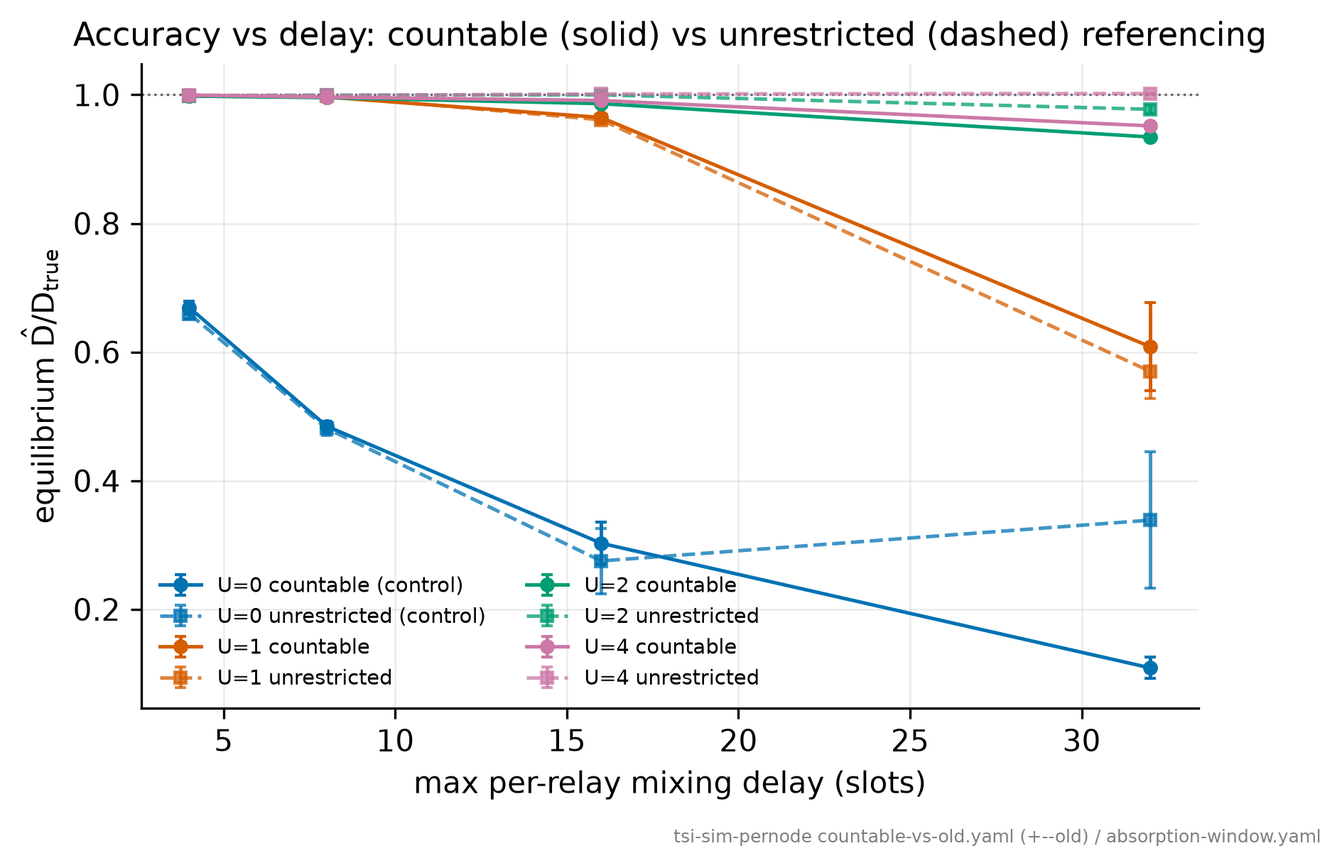
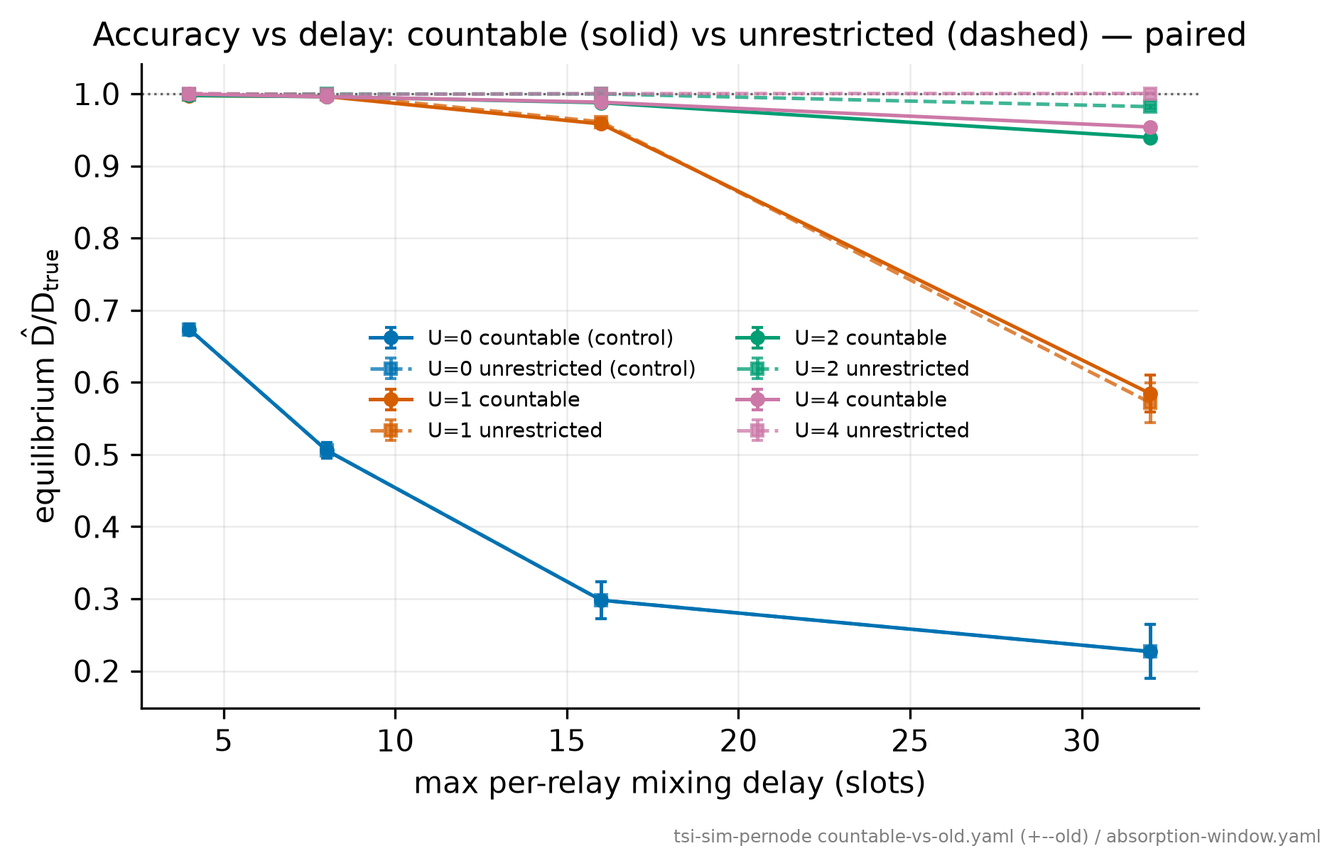
Pair the overload grid; the first-fork cost is resolved at every load
§3.2 rested on 5 unpaired replicates while §3.2a used a paired design.
Re-running the delta_max 4/8/16/32 grid with common random numbers and
20 replicates (configs/countable-vs-old-paired.yaml) changes the answer
at the design end.

The cost is resolved at EVERY delay and grows monotonically with load:

  delta_max=4  (rho 0.36)  -0.0013  t= 4.0   (unpaired: not resolved)
  delta_max=8  (rho 0.56)  -0.0034  t= 9.8   (unpaired: not resolved)
  delta_max=16 (rho 0.96)  -0.0102  t=17.5
  delta_max=32 (rho 1.76)  -0.0228  t=22.4

So §3.2's claim that "at the operating loads (rho < 1) no difference
between the models is detectable at all" was an artefact of the weak
design, not a property of the system. There is a difference; it is just
small — 0.13% and 0.34% at the two sub-unit loads. The new delta_max=4
figure (-0.0013 at 20 reps) independently reproduces §3.2a's (-0.0011 at
40 reps) from a separate sweep.

11 of 12 U>=1 cells resolve individually; max t = 29.0 against a
Bonferroni threshold of 2.87 for twelve tests. The U=0 control is exact:
80/80 replicate pairs differ by 0.0.

New finding at U=1 under overload: the sign FLIPS and the countable rule
wins, +0.0127 (t = 7.6), positive in 19 of 20 pairs. Both models have
collapsed at rho ~ 1.76 with a single uncle slot, but when capacity is
the binding constraint the countable rule's occupied-slot exclusion
means its one reference always recovers a NEW slot, while the
[…]

diff --git a/tools/simulators/tsi/tsi-sim-pernode/scripts/plot_countable_vs_old.py b/tools/simulators/tsi/tsi-sim-pernode/scripts/plot_countable_vs_old.py
@@ -34,7 +34,14 @@ import numpy as np
 import pandas as pd
 
 from tsi_sim.plotting import style
-from tsi_sim.plotting.figures_pernode import equilibrium, recovery_rate, sem
+from tsi_sim.plotting.figures_pernode import (
+    Z95,
+    equilibrium,
+    paired_gaps,
+    pooled_by_delay,
+    recovery_rate,
+    sem,
+)
 from tsi_sim.theory import expected_ratio, q_effective
 
 DELAY = "blend_delay_max"
@@ -61,7 +68,8 @@ def _eq(df: pd.DataFrame, extra_cols: tuple[str, ...] = ()) -> pd.DataFrame:
     return eq.groupby(keys, as_index=False).agg(**agg)
 
 
-def fig_accuracy_vs_delay(cnt: pd.DataFrame, old: pd.DataFrame) -> plt.Figure:
+def fig_accuracy_vs_delay(cnt: pd.DataFrame, old: pd.DataFrame,
+                          paired: bool = False) -> plt.Figure:
     """Accuracy vs delay per U, with replicate SEM bars.
 
     U=0 is the NEGATIVE CONTROL: with no uncles the two models are identical by
@@ -82,7 +90,8 @@ def fig_accuracy_vs_delay(cnt: pd.DataFrame, old: pd.DataFrame) -> plt.Figure:
     ax.axhline(1.0, color="0.4", lw=0.8, ls=":")
     ax.set_xlabel("max per-relay mixing delay (slots)")
     ax.set_ylabel(r"equilibrium $\hat{D}/D_{true}$")
-    ax.set_title("Accuracy vs delay: countable (solid) vs unrestricted (dashed) referencing")
+    ax.set_title("Accuracy vs delay: countable (solid) vs unrestricted (dashed)"
+                 + (" — paired" if paired else ""))
     ax.legend(ncol=2, fontsize="x-small")
     return fig
 
@@ -171,20 +180,26 @@ def main() -> None:
     cnt_raw, old_raw = _load(args.countable), _load(args.old)
     f = float(cnt_raw["f"].iloc[0])
     cnt, old = _eq(cnt_raw), _eq(old_raw)
+    # When both arms shared their RNG streams the comparison is PAIRED: the per-replicate
+    # difference cancels the shared variance, so it supersedes the unpaired two-sample test.
+    pg = paired_gaps(cnt_raw, old_raw)
     prov = "tsi-sim-pernode countable-vs-old.yaml (+--old) / absorption-window.yaml"
 
     written = []
-    written += style.save(fig_accuracy_vs_delay(cnt, old), out / "cvo_accuracy_vs_delay", prov)
+    written += style.save(fig_accuracy_vs_delay(cnt, old, pg is not None),
+                          out / "cvo_accuracy_vs_delay", prov)
     written += style.save(fig_prediction_vs_sim(cnt, f), out / "cvo_prediction_vs_sim", prov)
     written += style.save(fig_recovery_vs_delay(cnt), out / "cvo_recovery_vs_delay", prov)
     written += style.save(fig_absorption_window(_load(args.absorption)),
                           out / "absorption_window", prov)
-    # Headline numbers for the report. Every countable-vs-old gap is printed with the
-    # two-sample t = |diff| / SE(diff) over replicates; |t| < 2 means the cell does NOT
-    # resolve a model difference at this replicate count and must not be read as one.
-    # The U=0 rows are the negative control (models identical by construction, so their
-    # t is a pure noise reading).
-    print(f"{'cell':<14} {'countable':>17} {'old':>17} {'diff':>9} {'t':>6}  verdict")
+    # Headline numbers for the report. The gap is printed with t = |gap| / SE(gap); |t| < 2
+    # means the cell does NOT resolve a model difference at this replicate count and must not
+    # be read as one. Under paired_streams the SE is the per-replicate paired one (the shared
+    # variance cancels); otherwise it is the unpaired two-sample SE. The U=0 rows are the
+    # negative control — identical models, so paired they must be EXACTLY zero.
+    kind = "PAIRED (common random numbers)" if pg is not None else "unpaired two-sample"
+    print(f"\ncountable vs unrestricted — {kind}, {int(cnt.n_rep.min())} replicates/arm")
+    print(f"{'cell':<14} {'countable':>17} {'unrestricted':>17} {'gap':>9} {'t':>6}  verdict")
     for u in sorted(cnt["max_uncles"].unique()):
         for _, row in cnt[cnt.max_uncles == u].sort_values(DELAY).iterrows():
             q, qu = row.mean_q, row.mean_q_eff
@@ -193,10 +208,15 @@ def main() -> None:
             if not len(o):
                 continue
             orow = o.iloc[0]
-            diff = row.mean_ratio - orow.mean_ratio
-            se = float(np.hypot(row.sem_ratio, orow.sem_ratio))
-            t = abs(diff) / se if se > 0 else float("inf")
-            verdict = ("CONTROL (must be 0)" if u == 0 else
+            if pg is not None:
+                pr = pg[(pg.max_uncles == u) & (pg[DELAY] == row[DELAY])].iloc[0]
+                diff, se, t = float(pr.gap), float(pr.se), float(pr.t)
+            else:
+                diff = row.mean_ratio - orow.mean_ratio
+                se = float(np.hypot(row.sem_ratio, orow.sem_ratio))
+                t = abs(diff) / se if se > 0 else float("inf")
+            verdict = ("CONTROL (exactly 0)" if u == 0 and diff == 0.0 else
+                       "CONTROL" if u == 0 else
                        "resolved" if t >= 2 else "NOT RESOLVED (noise)")
             print(f"U={u} delay={row[DELAY]:>5g}  "
                   f"{row.mean_ratio:.4f}+-{row.sem_ratio:.4f}  "
@@ -205,6 +225,16 @@ def main() -> None:
             print(f"{'':>14}   q={q:.4f} q_u={qu:.4f} r={r:.4f} "
                   f"pred={float(expected_ratio(f, q_effective(q, r))):.4f} "
                   f"n_rep={int(row.n_rep)}")
+    if pg is not None:
+        print("\npooled over U>=1 per delay (the caps measure the same difference):")
+        for _, r_ in pooled_by_delay(pg).iterrows():
+            mark = "  <-- resolved" if r_.t >= 2 else ""
+            print(f"  delay={r_[DELAY]:>5g}: {r_.gap:+.5f} +-{Z95 * r_.se:.5f} "
+                  f"t={r_.t:6.2f}{mark}")
+        ctl = pg[pg.max_uncles == 0]
+        ex, tot = int(ctl.n_zero.sum()), int(ctl.n_pair.sum())
+        print(f"  U=0 control must be exactly 0 under pairing: {ex}/{tot} pairs "
+              f"-> {'PASSES' if ex == tot else 'FAILS'}")
     print(f"wrote {len(written)} files -> {out}")
 
 

diff --git a/tools/simulators/tsi/tsi-sim-pernode/scripts/plot_fine_delay.py b/tools/simulators/tsi/tsi-sim-pernode/scripts/plot_fine_delay.py
@@ -28,50 +28,27 @@ from __future__ import annotations
 
 import argparse
 from pathlib import Path
+from statistics import NormalDist
 
 import matplotlib.pyplot as plt
 import numpy as np
 import pandas as pd
 
 from tsi_sim.plotting import style
-from tsi_sim.plotting.figures_pernode import equilibrium, rho_for, sem
+from tsi_sim.plotting.figures_pernode import (
+    Z95,
+    equilibrium,
+    paired_gaps,
+    pooled_by_delay,
+    rho_for,
+    sem,
+)
 
 DELAY = "blend_delay_max"
-# Normal approximation: with 40 replicates per arm the t-quantile is within ~2% of 1.96,
-# and the replicate spread itself is the dominant uncertainty, so 1.96 is precise enough.
-Z95 = 1.96
 
 
 def _load(run_dir: str | Path) -> pd.DataFrame:
     return pd.read_parquet(Path(run_dir) / "results.parquet")
-
-
-def paired_gaps(cnt_raw: pd.DataFrame, old_raw: pd.DataFrame) -> pd.DataFrame | None:
-    """Per-replicate differences, when both arms were run with ``paired_streams``.
-
-    Under common random numbers replicate *i* of each arm shares the stake draw, the peering
-    graph and the lottery outcomes, so ``d_i = countable_i - unrestricted_i`` is a PAIRED
-    observation and the shared variance cancels. The test is then a one-sample t on the d_i,
-    which is what makes a sub-0.1 % effect reachable per cell instead of only after pooling.
-
-    Returns None when the runs are not paired, so the caller falls back to the unpaired test.
-    """
-    if not (cnt_raw.get("paired_streams", pd.Series([False])).all()
-            and old_raw.get("paired_streams", pd.Series([False])).all()):
-        return None
-    c, o = equilibrium(cnt_raw), equilibrium(old_raw)
-    keys = [DELAY, "max_uncles", "replicate"]
-    m = c[[*keys, "mean_ratio"]].merge(o[[*keys, "mean_ratio"]], on=keys,
-                                       suffixes=("_c", "_o"))
-    m["d"] = m.mean_ratio_c - m.mean_ratio_o
-    rows = []
-    for (dl, u), s in m.groupby([DELAY, "max_uncles"]):
-        d = s.d.to_numpy()
-        se = sem(d)
-        rows.append({DELAY: dl, "max_uncles": u, "gap": float(d.mean()), "se": se,
-                     "ci95": Z95 * se, "t": abs(d.mean()) / se if se > 0 else np.inf,
-                     "n_pair": len(d), "n_zero": int((d == 0.0).sum())})
-    return pd.DataFrame(rows).sort_values(["max_uncles", DELAY])
 
 
 def _cells(df: pd.DataFrame) -> pd.DataFrame:
@@ -125,24 +102,6 @@ def fig_accuracy(cnt: pd.DataFrame, old: pd.DataFrame) -> plt.Figure:
     ax.set_title("Design-regime accuracy: countable vs unrestricted referencing")
     ax.legend(ncol=2, fontsize="x-small")
     return fig
-
-
-def pooled_by_delay(g: pd.DataFrame) -> pd.DataFrame:
-    """Inverse-variance pooled gap across the U >= 1 arms, per delay.
-
-    Individual cells are underpowered against a sub-0.1 % effect even at 40 replicates, but
-    the three uncle caps are independent measurements of the same underlying difference, so
-    pooling them buys back a factor of ~sqrt(3) and is what actually resolves the trend.
-    """
-    u = g[g.max_uncles > 0]
-    rows = []
-    for d, s in u.groupby(DELAY):
-        w = 1.0 / s.se.to_numpy() ** 2
-        p = float((s.gap.to_numpy() * w).sum() / w.sum())
-        e = float(np.sqrt(1.0 / w.sum()))
-        rows.append({DELAY: d, "gap": p, "se": e, "ci95": Z95 * e,
-                     "t": abs(p) / e if e > 0 else np.inf})
-    return pd.DataFrame(rows).sort_values(DELAY)
 
 
 def fig_gap(g: pd.DataFrame) -> plt.Figure:
@@ -232,9 +191,10 @@ def main() -> None:
     print(f"\nn_rep = {int(g.n_rep_c.min())}/{int(g.n_rep_o.min())} per arm")
     print(f"widest 95% CI half-width at U>=1: +-{worst.ci95.max():.4f} "
           f"({100 * worst.ci95.max():.2f} pp)")
-    # Per-cell significance must be read against the number of cells tested: with 15 cells,
-    # ~0.75 are expected to clear t=2 by chance alone, so quote the Bonferroni threshold.
-    bonf = 2.935 if len(worst) == 15 else float("nan")
+    # Per-cell significance must be read against the number of cells tested — some are
+    # expected to clear t=2 by chance alone — so quote the Bonferroni threshold for the grid
+    # actually run, not a constant baked in for one grid size.
+    bonf = NormalDist().inv_cdf(1 - 0.05 / (2 * len(worst)))
     print(f"per-cell: {int((worst.t >= 2).sum())}/{len(worst)} cells with t>=2 "
           f"(expected by chance {0.05 * len(worst):.2f}); max t = {worst.t.max():.2f} "
           f"vs Bonferroni threshold {bonf:.3f}")
@@ -264,8 +224,10 @@ def main() -> None:
         print(f"  U=0 control under pairing must be EXACTLY zero: {exact}/{tot} pairs are 0.0"
               f" -> {'PASSES' if exact == tot else 'FAILS — streams are not shared'}")
         res = pg[(pg.max_uncles > 0) & (pg.t >= 2)]
-        print(f"  per-cell resolved at |t|>=2: {len(res)}/{len(pg[pg.max_uncles>0])}"
-              f" (unpaired: {int((unpaired[unpaired.max_uncles>0].t>=2).sum())}/15)")
+        n_cells = len(pg[pg.max_uncles > 0])
+        n_unpaired = int((unpaired[unpaired.max_uncles > 0].t >= 2).sum())
+        print(f"  per-cell resolved at |t|>=2: {len(res)}/{n_cells}"
+              f" (same data, unpaired test: {n_unpaired}/{n_cells})")
 
     ctl = g[g.max_uncles == 0]
     if len(ctl):

diff --git a/tools/simulators/tsi/tsi-sim-pernode/src/tsi_sim/plotting/figures_pernode.py b/tools/simulators/tsi/tsi-sim-pernode/src/tsi_sim/plotting/figures_pernode.py
@@ -83,6 +83,58 @@ def rho_for(df: pd.DataFrame, delay) -> np.ndarray:
     return f * (hops * np.asarray(delay, dtype=float) / 2.0 + (hops + 1) * ell)
 
 
+DELAY = "blend_delay_max"
+# Normal approximation: at 20+ replicates the t-quantile is within a few percent of
+# 1.96, and the replicate spread dominates, so 1.96 is precise enough for these CIs.
+Z95 = 1.96
+
+
+def paired_gaps(cnt_raw: pd.DataFrame, old_raw: pd.DataFrame) -> pd.DataFrame | None:
+    """Per-replicate differences, when both arms were run with ``paired_streams``.
+
+    Under common random numbers replicate *i* of each arm shares the stake draw, the peering
+    graph and the lottery outcomes, so ``d_i = countable_i - unrestricted_i`` is a PAIRED
+    observation and the shared variance cancels. The test is then a one-sample t on the d_i,
+    which is what makes a sub-0.1 % effect reachable per cell instead of only after pooling.
+
+    Returns None when the runs are not paired, so the caller falls back to the unpaired test.
+    """
+    if not (cnt_raw.get("paired_streams", pd.Series([False])).all()
+            and old_raw.get("paired_streams", pd.Series([False])).all()):
+        return None
+    c, o = equilibrium(cnt_raw), equilibrium(old_raw)
+    keys = ["blend_delay_max", "max_uncles", "replicate"]
+    m = c[[*keys, "mean_ratio"]].merge(o[[*keys, "mean_ratio"]], on=keys,
+                                       suffixes=("_c", "_o"))
+    m["d"] = m.mean_ratio_c - m.mean_ratio_o
+    rows = []
+    for (dl, u), s in m.groupby(["blend_delay_max", "max_uncles"]):
+        d = s.d.to_numpy()
+        se = sem(d)
+        rows.append({"blend_delay_max": dl, "max_uncles": u, "gap": float(d.mean()), "se": se,
+                     "ci95": Z95 * se, "t": abs(d.mean()) / se if se > 0 else np.inf,
+                     "n_pair": len(d), "n_zero": int((d == 0.0).sum())})
+    return pd.DataFrame(rows).sort_values(["max_uncles", "blend_delay_max"])
+
+
+def pooled_by_delay(g: pd.DataFrame) -> pd.DataFrame:
+    """Inverse-variance pooled gap across the U >= 1 arms, per delay.
+
+    Individual cells are underpowered against a sub-0.1 % effect even at 40 replicates, but
+    the three uncle caps are independent measurements of the same underlying difference, so
+    pooling them buys back a factor of ~sqrt(3) and is what actually resolves the trend.
+    """
+    u = g[g.max_uncles > 0]
+    rows = []
+    for d, s in u.groupby(DELAY):
+        w = 1.0 / s.se.to_numpy() ** 2
+        p = float((s.gap.to_numpy() * w).sum() / w.sum())
+        e = float(np.sqrt(1.0 / w.sum()))
+        rows.append({DELAY: d, "gap": p, "se": e, "ci95": Z95 * e,
+                     "t": abs(p) / e if e > 0 else np.inf})
+    return pd.DataFrame(rows).sort_values(DELAY)
+
+
 def _lat_axis(topo: str) -> tuple[str, str]:
     """(dataframe column, axis label) for the dominant latency knob of a graph topology."""
     if topo == "blend":

diff --git a/reports/tsi/README.md b/reports/tsi/README.md
@@ -58,7 +58,7 @@
 
 ---
 
-> **The uncle-reference model analysed here.** Uncle references are *counting-only* — they never affect a block's validity ([§6.7](#s6-7)–[§6.8](#s6-8)) — and are deduplicated by **slot**, not by block ([§8.5](#s8-5)). The reference window is derived from a **window absorption parameter**, `w_u = W_abs/f` with `W_abs = 10` expected block-intervals and bound `W_abs ≤ 0.6·k`, which is the `W = 300 = 10/f` sizing rule of [§3.4](#s3-4). One structural constraint shapes the results: only the **first block of a fork** — one whose parent lies on the referencing chain — is countable, which is the price of verifying every reference from chain data alone. This report calls that the **countable** model, and measures it against an **unrestricted** baseline in which any orphan in the window is referenceable at any fork depth ([§2.1](#s2-1), [§3.2](#s3-2), [§9](#s9)). The result: **in the design regime `ρ < 1` the two are practically identical.** A dedicated 40-replicate **paired** sweep of the operating band (`δ_max` 1–5, `ρ ≈ 0.21–0.41`), in which both arms share the stake draw, the peering graph and every lottery outcome so the uncle rule is the only difference, puts every `U ≥ 1` cell of both models in 0.998–1.001 and pins the first-fork cost at **nothing measurable up to `δ_max` = 3 and ~0.1 % at `δ_max` = 4–5** ([§3.2a](#s3-2a)). Differences appear only at `ρ ≥ 1`: the restriction trims ~1.4 % at `ρ ≈ 1`, and under overload (`ρ ≈ 1.8`) recovery saturates near 0.95 where the unrestricted model reaches ~1.00. Deep forks are unrecoverable by construction, so past `ρ ≈ 1` the ceiling is set by the fork *depth* profile and **no uncle cap buys it back** — a second, independent reason for the [§8](#s8) "keep `ρ < 1`" rule. The closed-form accuracy with the measured effective utilization, `log(1−f)/log(1−f/q_u)`, predicts every countable cell to within 0.2 %.
+> **The uncle-reference model analysed here.** Uncle references are *counting-only* — they never affect a block's validity ([§6.7](#s6-7)–[§6.8](#s6-8)) — and are deduplicated by **slot**, not by block ([§8.5](#s8-5)). The reference window is derived from a **window absorption parameter**, `w_u = W_abs/f` with `W_abs = 10` expected block-intervals and bound `W_abs ≤ 0.6·k`, which is the `W = 300 = 10/f` sizing rule of [§3.4](#s3-4). One structural constraint shapes the results: only the **first block of a fork** — one whose parent lies on the referencing chain — is countable, which is the price of verifying every reference from chain data alone. This report calls that the **countable** model, and measures it against an **unrestricted** baseline in which any orphan in the window is referenceable at any fork depth ([§2.1](#s2-1), [§3.2](#s3-2), [§9](#s9)). The result: **in the design regime `ρ < 1` the two are practically identical.** A dedicated 40-replicate **paired** sweep of the operating band (`δ_max` 1–5, `ρ ≈ 0.21–0.41`), in which both arms share the stake draw, the peering graph and every lottery outcome so the uncle rule is the only difference, puts every `U ≥ 1` cell of both models in 0.998–1.001 and pins the first-fork cost at **nothing measurable up to `δ_max` = 3 and ~0.1 % at `δ_max` = 4–5** ([§3.2a](#s3-2a)). Measured against the unrestricted baseline under common random numbers, the cost grows monotonically with load — 0.13 % at `ρ ≈ 0.36`, 0.34 % at `ρ ≈ 0.56`, 1.0 % at `ρ ≈ 0.96` and 2.3 % under overload at `ρ ≈ 1.76`, where recovery saturates near 0.95 against the unrestricted model's ~1.00. Deep forks are unrecoverable by construction, so past `ρ ≈ 1` the ceiling is set by the fork *depth* profile and **no uncle cap buys it back** — a second, independent reason for the [§8](#s8) "keep `ρ < 1`" rule. The closed-form accuracy with the measured effective utilization, `log(1−f)/log(1−f/q_u)`, predicts every countable cell to within 0.2 %.
 
 <a id="s1"></a>
 ## 1. Executive summary
@@ -200,28 +200,30 @@ The U = 0 under-count **deepens with N** (more nodes → more concurrent proposa
 
 ![Fig 2 — per-node D̂/D vs uncle cap U (curves: max blending delay per hop = 1/2/3 slots, averaged over N): without uncles the estimate is biased low — deeper as blending delay grows — and one uncle restores it to exactly 1.](report-figures/fig2_uncle_recovery.png)
 
-**What the first-fork restriction costs.** Running the delay × U grid under both referencing models on the same grid (`configs/countable-vs-old.yaml`, N = 1 000, blend, 3 hops, 5 replicates; [§9](#s9)) separates the regimes cleanly (`fig30`). Cells are replicate means ± SEM; `t` is the two-sample statistic for the countable−unrestricted gap, and cells with `t < 2` do **not** resolve a difference at this replicate count:
+**What the first-fork restriction costs.** The delay × U grid is run under both referencing models with **common random numbers** (`configs/countable-vs-old-paired.yaml`, 20 replicates, N = 1 000, blend, 3 hops; [§9](#s9)): a countable cell and its unrestricted twin share the stake draw, the peering graph and every lottery outcome, so the uncle rule is the only difference and each replicate is a matched pair. Cells are replicate means ± SEM; the gap and its `t` come from the 20 per-replicate differences.
 
-| `δ_max` (s) | ρ | U | countable | unrestricted | gap (t) |
-|---|---|---|---|---|---|
-| 4 | ≈ 0.36 | 1 / 2 / 4 | 0.9979 ± 0.0015 / 0.9982 ± 0.0014 / 0.9995 ± 0.0012 | 0.9981 ± 0.0006 / 0.9985 ± 0.0012 / 0.9992 ± 0.0013 | *none resolved* (0.1–0.2) |
-| 8 | ≈ 0.56 | 1 / 2 / 4 | 0.9965 ± 0.0015 / 0.9955 ± 0.0017 / 0.9963 ± 0.0015 | 0.9986 ± 0.0017 / 0.9993 ± 0.0016 / 0.9989 ± 0.0017 | *none resolved* (1.0–1.6) |
-| 16 | ≈ 0.96 | 1 | 0.9647 ± 0.0065 | 0.9610 ± 0.0043 | *not resolved* (0.5) |
-| 16 | ≈ 0.96 | 2 / 4 | 0.9862 ± 0.0010 / 0.9911 ± 0.0032 | 0.9999 ± 0.0005 / 1.0013 ± 0.0011 | −0.014 (12.1) / −0.010 (3.0) |
-| 32 | ≈ 1.76 | 1 | 0.608 ± 0.069 | 0.570 ± 0.042 | *not resolved* (0.5) |
-| 32 | ≈ 1.76 | 2 / 4 | 0.9343 ± 0.0015 / 0.9517 ± 0.0007 | 0.9774 ± 0.0064 / 1.0020 ± 0.0010 | −0.043 (6.5) / −0.050 (41.0) |
+| `δ_max` (s) | ρ | `U=0` (both) | `U=1` countable / unrestricted | `U=2` | `U=4` | pooled gap (t) |
+|---|---|---|---|---|---|---|
+| 4 | ≈ 0.36 | 0.674 | 0.9975 / 0.9989 | 0.9977 / 0.9991 | 0.9996 / 1.0005 | −0.0013 (4.0) |
+| 8 | ≈ 0.56 | 0.506 | 0.9962 / 0.9995 | 0.9960 / 0.9996 | 0.9958 / 0.9989 | −0.0034 (9.8) |
+| 16 | ≈ 0.96 | 0.298 | 0.9582 / 0.9610 | 0.9876 / 0.9998 | 0.9883 / 1.0002 | −0.0102 (17.5) |
+| 32 | ≈ 1.76 | 0.227 | 0.585 / 0.572 | 0.9394 / 0.9821 | 0.9539 / 1.0005 | −0.0228 (22.4) |
 
-**The `U = 0` rows are a negative control.** With no uncles the two models are identical by construction — no reference is ever taken, so any measured gap is pure between-run noise (the two models draw independent RNG streams by design, so the comparison is unpaired). That control reads **+0.010 (t = 0.8) at `δ_max = 4`** but **−0.230 (t = 2.1) at `δ_max = 32`**, where single replicates range from 0.05 to 0.60. Read the table against that floor: at `δ_max = 32` a gap must clear ~0.2 to mean anything on a single-replicate basis, which is exactly why the `U = 1` cells there are reported as unresolved while the tightly-clustered `U = 2` and `U = 4` cells are not.
+**The negative control is exact.** With `U = 0` no reference is ever taken, so under shared streams the two arms must be bit-identical rather than merely close: **all 80 replicate pairs differ by exactly 0.0**, at every delay.
 
-So: **at the operating loads (`ρ < 1`) no difference between the models is detectable at all** — the first-fork restriction costs nothing measurable where forks are shallow, and both models sit at ≥ 0.995 for every `U ≥ 1`. ([§3.2a](#s3-2a) puts a much tighter bound on this region.) Differences appear only at `ρ ≥ 1` and only at `U ≥ 2`: at `ρ ≈ 1` the restriction trims ~1.4 %, and in overload the countable recovery **saturates** — raising `U` 2 → 4 buys only 0.934 → 0.952 while the unrestricted model reaches ~1.00. The ceiling is the measured recovery rate `r` (0.92 at `δ_max = 32`, `U = 4`), set by the fork-*depth* profile rather than by capacity, so no uncle cap buys it back. The closed form `D̂/D = log(1−f)/log(1−f/q_u)` with the measured `q_u = q + (1−q)·r` predicts every countable cell to within 0.2 % (`fig31`).
+**The cost grows monotonically with load**, and is resolved at every delay: 0.13 % at `ρ ≈ 0.36`, 0.34 % at `ρ ≈ 0.56`, 1.0 % at `ρ ≈ 0.96`, 2.3 % at `ρ ≈ 1.76`. Eleven of the twelve `U ≥ 1` cells resolve individually (the exception is `U = 4` at `δ_max = 4`, `t = 1.07`), and the largest, `t = 29.0`, clears the Bonferroni threshold of 2.87 for twelve tests by an order of magnitude. At the design end the effect is small enough that it took pairing to see it at all — the earlier unpaired 5-replicate grid found nothing below `δ_max = 16` — and [§3.2a](#s3-2a) reaches the same `δ_max = 4` figure (−0.0013 at 20 replicates here, −0.0011 at 40 there) from an independent sweep.
 
-`fig32` shows `r` and the residual `1−r` per delay, rising from 0.3 % to 7.8 % of the waste as `δ_max` goes 4 → 32 at `U = 4`. That residual is the *combined* first-fork and capacity loss — the simulator cannot separate the two, because the restriction acts at selection (a deep orphan is simply never referenced) rather than at counting. At `U = 4`, where capacity is not binding for `ρ ≤ 1.8`, most of it is attributable to fork depth; the split is not measured directly.
+**At `U = 1` under overload the sign flips**, and this is the one place the countable rule *wins*: at `δ_max = 32` it reads 0.585 against 0.572, a gap of **+0.0127 (t = 7.6), positive in 19 of 20 pairs**. Both models have collapsed there — one uncle slot cannot drain `ρ ≈ 1.76` — but when capacity is the binding constraint, the countable rule's occupied-slot exclusion means its single reference always recovers a *new* slot, whereas the unrestricted rule deduplicates by block id and can spend its one reference on an orphan whose slot is already counted, recovering nothing. The measured recovery agrees: `q_u` = 0.591 countable against 0.579 unrestricted. So the slot-vs-block distinction of [§2.1](#s2-1) is worth most exactly where references are scarcest.
 
-![Fig 30 — equilibrium D̂/D vs Blend mixing delay, countable (solid) vs unrestricted (dashed) per uncle cap, error bars = replicate SEM. The U=0 pair is the negative control: the models are identical with no uncles, so the visible gap there — small at low delay, large at 32 — is the pure between-run noise floor. Countable saturates below 1 in overload, where deep forks are unrecoverable by construction.](report-figures/fig30_countable_vs_old.png)
+**Everywhere else the restriction dominates**, and it bites hardest through the fork *depth* profile rather than capacity: raising `U` from 2 to 4 at `δ_max = 32` moves the countable model only 0.939 → 0.954 while the unrestricted model reaches ~1.00. The ceiling is the measured recovery rate `r` (0.92 at `δ_max = 32`, `U = 4`), so no uncle cap buys it back. The closed form `D̂/D = log(1−f)/log(1−f/q_u)` with the measured `q_u = q + (1−q)·r` predicts every countable cell to within 0.2 % (`fig31`).
+
+`fig32` shows `r` and the residual `1−r` per delay, rising from 0.3 % to 8.1 % of the waste as `δ_max` goes 4 → 32 at `U = 4`. That residual is the *combined* first-fork and capacity loss — the simulator cannot separate the two, because the restriction acts at selection (a deep orphan is simply never referenced) rather than at counting.
+
+![Fig 30 — equilibrium D̂/D vs Blend mixing delay, countable (solid) vs unrestricted (dashed) per uncle cap, under common random numbers; error bars = replicate SEM over 20 pairs. The U=0 pair is the negative control: with no uncles and shared streams the two arms are bit-identical, so those curves coincide exactly. Countable sits below unrestricted at every delay for U≥2, and the gap widens with load.](report-figures/fig30_countable_vs_old.png)
 
 ![Fig 31 — the q→q_u reduction check: predicted log(1−f)/log(1−f/q̄_u) from the measured q̄_u vs the simulated equilibrium, all countable U≥1 cells on the diagonal within 0.2 %.](report-figures/fig31_countable_prediction.png)
 
-![Fig 32 — measured recovery rate r (left) and the non-recovered waste share 1−r on a log axis (right) vs mixing delay: near-total recovery at design loads; the residual — first-fork and capacity losses combined, which this measurement cannot separate — grows with delay.](report-figures/fig32_countable_recovery.png)
+![Fig 32 — measured recovery rate r (left) and the non-recovered waste share 1−r on a log axis (right) vs mixing delay: near-total recovery at design loads (1−r ≈ 0.3 % at δ_max = 4), rising to ~8 % at δ_max = 32 for U = 4. The residual combines first-fork and capacity losses, which this measurement cannot separate.](report-figures/fig32_countable_recovery.png)
 
 **Bootstrap is self-limiting — but only with uncles** (`fig1`; full scale, k = 2160, Blend, N = 1 000 and 5 000, genesis guesses 0.01×–2× the true stake; 0.1×–2× at N = 5 000). With uncles (U = 2, solid lines) the cold start is a non-event: whatever the guess, block production snaps back to the target `f` within ~2–2.5 epochs and the estimate lands on 1.0 by epoch 2 — identically at both network sizes. Without uncles (U = 0, dashed) the system also converges from any guess, **but to the wrong place**: the estimate settles below truth (mean ≈ 0.58× across guesses, ranging ≈0.48–0.85; ≈0.51× at N = 5 000) and the network then *chronically over-produces* blocks at ~1.85× the target rate (~2.0× at N = 5 000) — the [§6.2](#s6-2) load feedback in the flesh (a low estimate makes the lottery easier, extra blocks orphan, the count stays low). So uncle references are load-bearing from the very first epochs: they are what makes the bootstrap end *at the truth* rather than at a permanently overheated equilibrium.
 
@@ -879,7 +881,8 @@ Sweep studies are committed configs, run with `make <name>` (writes a dated `run
 | soft uncle inclusion (reward share vs emergent `p_ref`) | `scripts/reward_mandate.py` | [§6.8](#s6-8), [§6.9](#s6-9) |
 | U = 0 fluctuation series (zero delay, k ∈ {256, 1024, 2160}) | `scripts/appendix_fluct.py --run` (`runs/fluctuation_u0.parquet`) | [Appendix B](#sB) |
 | CI smoke grid + analytic sanity checks | `configs/smoke.yaml`; `scripts/verify.py` (`make verify`) — validation only, no figures | — |
-| **countable vs unrestricted referencing** (accuracy over delay × U; measured `q_u`/recovery `r`) | `configs/countable-vs-old.yaml` run twice — default and with `--old`; figures + significance table by `scripts/plot_countable_vs_old.py` | [§2.1](#s2-1), [§3.2](#s3-2) |
+| **countable vs unrestricted referencing, PAIRED** (accuracy over delay × U; measured `q_u`/recovery `r`) | `configs/countable-vs-old-paired.yaml` run twice — default and with `--old`, 20 replicates, common random numbers; figures + paired-difference table by `scripts/plot_countable_vs_old.py` | [§2.1](#s2-1), [§3.2](#s3-2) |
+| countable vs unrestricted, unpaired (same grid, 5 replicates; superseded — retained as the power comparison) | `configs/countable-vs-old.yaml` run twice | [§3.2](#s3-2) |
 | **fine delay band, PAIRED** (δ_max 1–5, 40 replicates, common random numbers — the primary design-regime measurement) | `configs/fine-delay-paired.yaml` run twice — default and with `--old`; paired-difference tests + figures by `scripts/plot_fine_delay.py` | [§3.2a](#s3-2a) |
 | fine delay band, unpaired (same grid without `paired_streams`; superseded, retained as the power comparison) | `configs/fine-delay.yaml` run twice | [§3.2a](#s3-2a) |
 | **window absorption sweep** (`W` in expected block-intervals, `w_u = W/f` derived) | `configs/absorption-window.yaml`; figure by `scripts/plot_countable_vs_old.py` | [§3.4](#s3-4) |
@@ -888,7 +891,7 @@ Sweep studies are committed configs, run with `make <name>` (writes a dated `run
 
 Because the two models draw independent RNG streams, every countable-vs-unrestricted comparison is **unpaired**, and its resolution is set by the replicate spread rather than by the effect size. Each comparison sweep therefore includes a `U = 0` arm as a **negative control**: with no uncles the models are identical by construction, so the measured `U = 0` gap is a direct reading of the noise floor at that delay and replicate count. At `δ_max = 32` with 5 replicates that floor is ≈ 0.23 in `D̂/D` — larger than several real effects elsewhere in the grid — which is why [§3.2](#s3-2) reports a `t` statistic per cell and why the design regime is measured separately at 40 replicates ([§3.2a](#s3-2a)).
 
-All studies were **re-run on 2026-07-23/24 with the corrected slot-counting mechanism** ([§2.1](#s2-1)) and the early-stop optimisation; the resilient batch is `scripts/run_all_reruns.sh` (per-step log in `runs/rerun_status.log`). Canonical run directories (latest): fullscale N=5000/10000 = `2026-07-24_094519_fullscale`; fullscale N=1000/2000 = `2026-07-23_171803_fullscale-small`; uncle-window = `2026-07-24_001456`; window-uncles = `2026-07-24_014240`; block-rate = `2026-07-24_043943`; blend-hops-delay = `2026-07-24_064052`; window-scale = `2026-07-24_085234`; latency-shape = `2026-07-24_090014_expdist`; stake-tail = `2026-07-24_090044_pareto133`; heterogeneous-start = `2026-07-24_090114_default`; N-scaling = the `nscaling-{a,b}` + `nscaling32-{a,b}` runs; adversary grids = `runs/adversary_grid/`; jitter = `runs/jitter_grid/`; bootstrap = `runs/bootstrap_fullscale/`; fluctuation = `runs/fluctuation_u0.parquet`; fork-rate = `runs/fork_rate_vs_delay.parquet`; ρ-boundary = `2026-07-27_195627_rho-boundary`. Referencing-model studies: countable-vs-unrestricted = `2026-08-04_103536_cvo-countable` / `2026-08-04_104010_cvo-old`; window absorption = `2026-08-04_104633_absorption-window`; fine delay band (unpaired) = `2026-08-04_191441_fine-countable` / `2026-08-04_195353_fine-old`; fine delay band (paired, primary) = `2026-08-05_111109_fine-paired-countable` / `2026-08-05_113218_fine-paired-old`.
+All studies were **re-run on 2026-07-23/24 with the corrected slot-counting mechanism** ([§2.1](#s2-1)) and the early-stop optimisation; the resilient batch is `scripts/run_all_reruns.sh` (per-step log in `runs/rerun_status.log`). Canonical run directories (latest): fullscale N=5000/10000 = `2026-07-24_094519_fullscale`; fullscale N=1000/2000 = `2026-07-23_171803_fullscale-small`; uncle-window = `2026-07-24_001456`; window-uncles = `2026-07-24_014240`; block-rate = `2026-07-24_043943`; blend-hops-delay = `2026-07-24_064052`; window-scale = `2026-07-24_085234`; latency-shape = `2026-07-24_090014_expdist`; stake-tail = `2026-07-24_090044_pareto133`; heterogeneous-start = `2026-07-24_090114_default`; N-scaling = the `nscaling-{a,b}` + `nscaling32-{a,b}` runs; adversary grids = `runs/adversary_grid/`; jitter = `runs/jitter_grid/`; bootstrap = `runs/bootstrap_fullscale/`; fluctuation = `runs/fluctuation_u0.parquet`; fork-rate = `runs/fork_rate_vs_delay.parquet`; ρ-boundary = `2026-07-27_195627_rho-boundary`. Referencing-model studies: countable-vs-unrestricted (paired, primary) = `2026-08-05_120804_cvo-paired-countable` / `2026-08-05_123403_cvo-paired-old`; the superseded unpaired pair = `2026-08-04_103536_cvo-countable` / `2026-08-04_104010_cvo-old`; window absorption = `2026-08-04_104633_absorption-window`; fine delay band (unpaired) = `2026-08-04_191441_fine-countable` / `2026-08-04_195353_fine-old`; fine delay band (paired, primary) = `2026-08-05_111109_fine-paired-countable` / `2026-08-05_113218_fine-paired-old`.
 
 Figures are embedded from [`report-figures/`](report-figures) and versioned here alongside the report; the simulator folder does **not** commit its own generated figures, so the copies checked in here are the figures of record. Figures are in `report-figures/` (`fig1`–`fig29`, plus [Appendix B](#sB)'s `figB1`–`figB2`; numbering is generation order, not order of appearance). Committed generators: `fig1` (bootstrap, k=2160) by `scripts/bootstrap_dynamics.py`; `fig2`,`fig4`,`fig5`,`fig17`–`fig22` by `scripts/regenerate_extra_figs.py` from the latest sweeps (`fig3` hops×delay×U grid by `scripts/hops_delay_grid.py`, `fig6` (block-rate `U_min` grid + ρ-collapse) rendered ad hoc from `runs/2026-07-24_043943_block-rate` with no committed generator; `fig26` deficit-vs-ρ by `scripts/rho_boundary_analysis.py`) (fullscale-derived `fig17`–`fig20` pool both sizes in that run, N = 5 000 and N = 10 000 — the generators filter on stake_dist/topology/degree/init_dest only, never on `n_nodes`); `fig8`,`fig9` by `scripts/adversary_figs.py` from `runs/adversary_grid/`; `fig10`–`fig12` by `scripts/dynamic_withhold.py`; `fig13`–`fig15` by `scripts/selfish_mining.py`/`selfish_rewards.py`/`reward_mandate.py`; `fig16` by `scripts/stake_vs_delay.py`; `fig23`–`fig24` by `scripts/nscaling_analysis.py`; `fig25` by `scripts/window_scale_analysis.py`; `fig27`–`fig28` by `scripts/reorg_depth.py` (fork rates via `--measure`; private-chain model `src/tsi_sim/reorg.py`); `fig29` by `scripts/churn.py`; `figB1`–`figB2` by `scripts/appendix_fluct.py`. `fig7` (feedback fixed-point) is an analytic overlay; `fig30`–`fig33` (countable-vs-unrestricted accuracy, `q_u`-prediction check, recovery rate, absorption-window sweep) by `scripts/plot_countable_vs_old.py` from the `cvo-countable`/`cvo-old`/`absorption-window` runs; `fig34`–`fig35` (design-regime accuracy and the model gap with 95 % CIs) by `scripts/plot_fine_delay.py` from the `fine-countable`/`fine-old` runs. Every figure type the per-node simulator generates appears in this report, and the fork-rate/reorg-depth study closes the previous reproducibility gap for the adversarial figures (`fig8`,`fig9` now have committed generators from `runs/adversary_grid/`).
 
